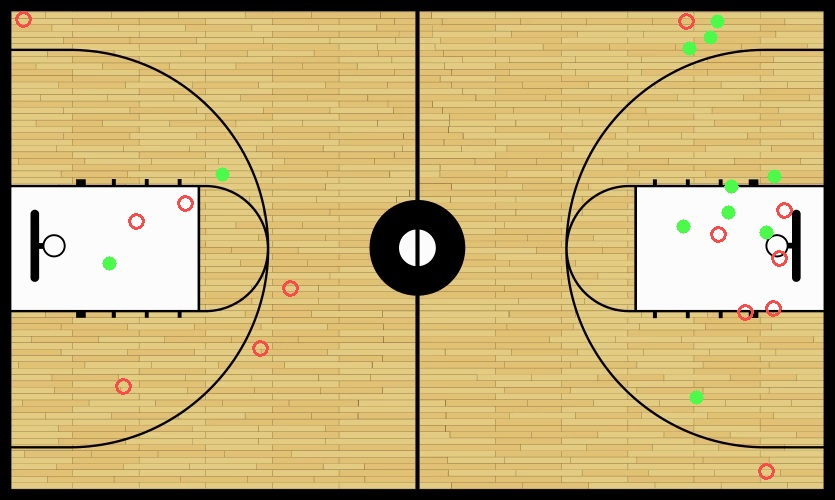
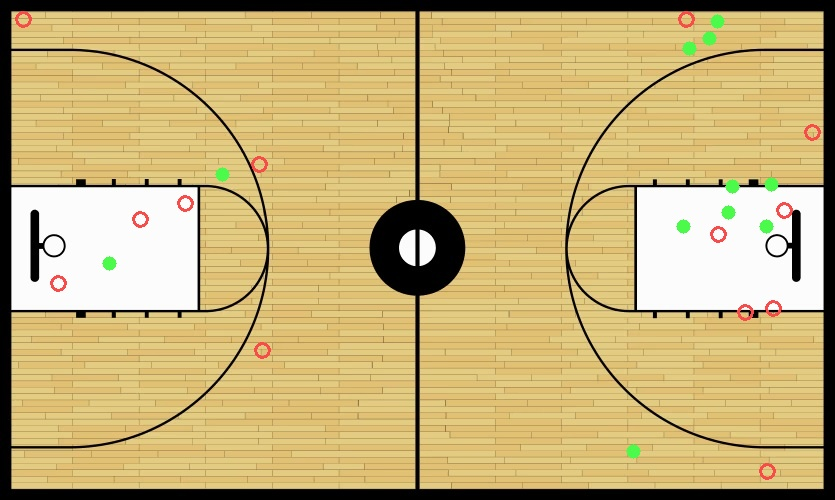
getShotInfo and Metrics
Added getShotInfo() to getShots.py which gives you shot info (left or right side of the court, what spot {rim, paint, top, left/right wing, left/right corner}, distance to basket in feet).

Defined four categories and three metrics to evaluate shot chart accuracy.

diff --git a/homographyEstimation.py b/homographyEstimation.py
@@ -64,100 +64,42 @@ class TacticalViewConverter:
     # -------------------------------------------------------
     # NEW: extracts dominant HSV color from a player's torso region
     # -------------------------------------------------------
-    def _get_jersey_sat_vote(self, frame, box_xyxy,
-                          grid=(4, 4), crop_size=5,
-                          v_frac=(0.3, 0.5), h_frac=(0.3, 0.7),
-                          sat_threshold=100):
-        """
-        Samples a grid of small crops across the torso region.
-        Returns (mean_hsv_of_all_crops, fraction_of_crops_above_sat_threshold).
-        
-        v_frac: vertical slice of box to sample within (top=0, bottom=1)
-        h_frac: horizontal slice of box to sample within
-        grid:   (rows, cols) of sample points
-        """
+    def getJerseyColor(self, frame, box_xyxy):  
         x1, y1, x2, y2 = int(box_xyxy[0]), int(box_xyxy[1]), int(box_xyxy[2]), int(box_xyxy[3])
-        bh, bw = y2 - y1, x2 - x1
-        if bh <= 0 or bw <= 0:
-            return None, 0.0
+        ylow = int(y1 + 0.5*(y2-y1))
+        yhigh = int(y1 + 0.6*(y2-y1))
 
-        # Define the torso region boundary
-        region_y1 = y1 + int(bh * v_frac[0])
-        region_y2 = y1 + int(bh * v_frac[1])
-        region_x1 = x1 + int(bw * h_frac[0])
-        region_x2 = x1 + int(bw * h_frac[1])
+        chunk = frame[ylow:yhigh, x1:x2]
 
-        rows, cols = grid
-        half = crop_size // 2
+        hsv_chunk = cv2.cvtColor(chunk, cv2.COLOR_BGR2HSV)
+        lower_white = np.array([0, 0, 90])
+        upper_white = np.array([179, 65, 255])
 
-        all_pixels = []
-        crops_above_threshold = 0
-        crops_sampled = 0
+        mask = cv2.inRange(hsv_chunk, lower_white, upper_white)
 
-        for r in range(rows):
-            for c in range(cols):
-                # Evenly space sample points across the torso region
-                sy = int(region_y1 + (r + 0.5) * (region_y2 - region_y1) / rows)
-                sx = int(region_x1 + (c + 0.5) * (region_x2 - region_x1) / cols)
+        white_pixels = cv2.countNonZero(mask)
+        total_pixels = chunk.shape[0] * chunk.shape[1]
+        white_percentage = (white_pixels / total_pixels) * 100
 
-                fy1 = max(sy - half, 0)
-                fy2 = min(sy + half + 1, frame.shape[0])
-                fx1 = max(sx - half, 0)
-                fx2 = min(sx + half + 1, frame.shape[1])
-
-                crop = frame[fy1:fy2, fx1:fx2]
-                if crop.size == 0:
-                    continue
-
-                hsv = cv2.cvtColor(crop, cv2.COLOR_BGR2HSV)
-                pixels = hsv.reshape(-1, 3).astype(np.float32)
-                mean_s = pixels[:, 1].mean()
-
-                all_pixels.append(pixels)
-                crops_sampled += 1
-                if mean_s > sat_threshold:
-                    crops_above_threshold += 1
-
-        if crops_sampled == 0 or len(all_pixels) == 0:
-            return None, 0.0
-
-        all_pixels_arr = np.concatenate(all_pixels, axis=0)
-        mean_hsv = all_pixels_arr.mean(axis=0)
-        sat_vote_ratio = crops_above_threshold / crops_sampled  # fraction of crops that look colored
-
-        return mean_hsv, sat_vote_ratio
+        return white_percentage
 
 
     def assign_teams(self, frame, player_boxes):
-        """
-        Uses grid-sampled torso crops and a majority vote on saturation
-        to assign each player to team 0 (colored) or team 1 (white).
-        
-        SAT_VOTE_THRESHOLD: fraction of crops that must read as saturated
-        to call the player "colored team". 0.5 = majority vote.
-        Raise toward 0.6-0.7 if white jersey numbers cause false colored calls.
-        """
-        SAT_VOTE_THRESHOLD = 0.55
-        DEBUG = False
-
         n = len(player_boxes)
         assignments = np.full(n, -1, dtype=np.int32)
         if n == 0:
             return assignments
 
+        white_pct = []
         for i, box in enumerate(player_boxes):
-            mean_hsv, sat_vote_ratio = self._get_jersey_sat_vote(frame, box)
+            white_pct.append((i,self.getJerseyColor(frame, box)))
+        white_pct.sort(key=lambda x: x[1],reverse=True)
+        print(white_pct)
+        for i, wp in white_pct[0:5]:
+            assignments[i] = 1
 
-            if DEBUG:
-                team = 0 if sat_vote_ratio >= SAT_VOTE_THRESHOLD else 1
-                print(f"  Player {i}: mean_HSV={np.round(mean_hsv, 1) if mean_hsv is not None else None} | sat_vote={sat_vote_ratio:.2f} -> team {team}")
-
-            if mean_hsv is None or sat_vote_ratio < SAT_VOTE_THRESHOLD:
-                assignments[i] = 1  # white team
-            else:
-                assignments[i] = 0  # colored team
-
-        assignments[assignments == -1] = 1
+        assignments[assignments == -1] = 0
+        print(assignments)
         return assignments
 
     # -------------------------------------------------------
@@ -173,7 +115,7 @@ class TacticalViewConverter:
                 team = team_assignments[i]
                 color = self.TEAM_COLORS[team] if team in (0, 1) else self.UNKNOWN_COLOR
             else:
-                color = (0, 0, 255)  # original red fallback
+                color = (75, 75, 250)  # original red fallback
             cv2.circle(img, (int(x), int(y)), 9, color, -1)
 
         #for (x, y) in mapped_ball_points:

diff --git a/getShots.py b/getShots.py
@@ -18,9 +18,9 @@ court_image     = "2D_HS_Court.jpg"
 shot_chart_name = "shotChartTesting.jpg"
 
 #Timing Information Adjustments
-PRE_ROLL        = [2.6,3.0,3.4]   # max seconds before shot timestamp to search backwards from
-SHOT_OFFSET     = [0.4,0.7,1.0]   # seconds before the timestamp to begin the backwards scan
-FALLBACK_OFFSET = [1.5,2.0,2.5]   # seconds before shot timestamp to use as fallback frame
+PRE_ROLL        = [2.8,3.1,3.4]   # max seconds before shot timestamp to search backwards from
+SHOT_OFFSET     = [0.2,0.5,1.2]   # seconds before the timestamp to begin the backwards scan
+FALLBACK_OFFSET = [1.6,2.0,2.5]   # seconds before shot timestamp to use as fallback frame
 
 # YOLO class indices
 CLASS_BALL   = 0
@@ -253,7 +253,7 @@ def find_best_frame(cap: cv2.VideoCapture, model: YOLO, shot_sec: float,
             temp = annotate_frame(frame.copy(),ball_boxes,player_boxes_conf,hoop_boxes, iou_scores,fn)
             cv2.namedWindow("Frame Testing", cv2.WINDOW_NORMAL)
             cv2.resizeWindow("Frame Testing", 960, 540)
-            show_frame_and_wait(temp,"Frame Testing",delay=15)
+            show_frame_and_wait(temp,"Frame Testing",delay=10)
         
 
         frame_data[fn] = {
@@ -477,7 +477,7 @@ def getShots(json_path: str, film_path: str, tipoff_seconds: float, show_frames:
         )
 
         last_player_points = mapper.map_centers_from_boxes(last_player_boxes, last_H)
-        #last_ball_points   = mapper.map_centers_from_boxes(last_ball_boxes,   last_H)
+        #last_ball_points  = mapper.map_centers_from_boxes(last_ball_boxes,   last_H)
 
         if show_frames:
             team_assignments = mapper.assign_teams(frame, last_player_boxes)
@@ -493,6 +493,9 @@ def getShots(json_path: str, film_path: str, tipoff_seconds: float, show_frames:
         shot_coordinates[0] = min(shot_coordinates[0],812)
         shot_coordinates[1] = max(shot_coordinates[1],19)
         shot_coordinates[1] = min(shot_coordinates[1],481)
+
+        side, shot_type, dist = getShotInfo(shot_coordinates)
+        print(side, shot_type, dist)
 
         if "mis" in make_miss:
             cv2.circle(shotChart,(int(shot_coordinates[0]),int(shot_coordinates[1])),7,(75,75,250),2)
@@ -516,6 +519,54 @@ def getShots(json_path: str, film_path: str, tipoff_seconds: float, show_frames:
     cap.release()
     cv2.destroyAllWindows()
     print("Shot Chart Created!")
+
+def getShotInfo(shot_coordinates): # Output: Shot Location Text; Distance From Hoop; 
+    x,y = shot_coordinates
+    if x <= 417: #Left Side
+        side = "Left"
+        distance = ( (x-53)**2 + (y-245) ** 2 ) ** 0.5
+        distance = round(distance * (1/11), 1) #dist in ft
+        if 11 <= y < 182: #Right Corner OR Right Wing
+            if 11 <= x <= 104:
+                shot_type = "Right Corner"
+            elif 104 < x <= 417:
+                shot_type = "Right Wing"
+        elif 182 <= y <= 314: #Rim Shots, Paint, or Top
+            if 11 <= x <= 104:
+                shot_type = "Rim"
+            elif 104 < x <= 147:
+                shot_type = "Paint"
+            elif 147 < x <= 417:
+                shot_type = "Top"
+        elif 314 < y <= 489: #Left Corner or Left Wing
+            if 11 <= x <= 104:
+                shot_type = "Left Corner"
+            elif 104 < x <= 417:
+                shot_type = "Left Wing"
+
+    else: #Right Side
+        side = "Right"
+        distance = ( (x-786)**2 + (y-245) ** 2 ) ** 0.5
+        distance = round(distance * (1/11), 1) #dist in ft
+        if 11 <= y < 182: #Left Corner or Wing
+            if 731 <= x <= 824: #93
+                shot_type = "Left Corner"
+            elif 417 <= x < 731:
+                shot_type = "Left Wing"
+        elif 182 <= y <= 314: #Rim Shots, Paint, or Top
+            if 731 <= x <= 824: 
+                shot_type = "Rim"
+            elif 688 <= x < 731:
+                shot_type = "Paint"
+            elif 417 <= x < 688:
+                shot_type = "Top"
+        elif 314 < y <= 489: #Right Corner or Right Wing
+            if 731 <= x <= 824:
+                shot_type = "Right Corner"
+            elif 417 <= x < 731:
+                shot_type = "Right Wing"
+    
+    return (side,shot_type,distance)
 
 
 # ── Entry point ───────────────────────────────────────────────────────────────

diff --git a/shotchart metrics.md b/shotchart metrics.md
@@ -1,0 +1,41 @@
+SHOT CHART METRICS
+
+Categories:
+- Absolute Perfection (AP): the shot on the 2D board is in the exact spot according to human vision (maybe a few pixels off); 
+    if a human were to create a shot chart, they would mark the same spot
+
+- Distance Marginal Error (DME): the distance of the shot placement is slightly off from the actual point of the shot;
+    this is usually due to minor homography estimation errors or slightly inaccurate bounding boxes;
+    if a human were to create a shot chart, their circle and this circle will be a few pixels off from intersecting
+
+- Algorithmic Marginal Error (ABE): the distance of the shot placement is slightly off from the actual point of the shot;
+    however, now this is generated from an inaccurate frame of the shot release;
+    if a human were to create a shot chart, their circle will be in a similar region
+
+- Complete Error (CE): the shot is completely off from the actual point of shot; not even in the same region
+    if a human were to create a shot chart, their circle wouldn't even be close
+
+Key Metrics (# indicates number of)
+- Region Accuracy (RA): how many of the shot placements are in the general region
+    #Shots In Region / #Total Shots
+    #Shots In Region = #Absolute Perfection + #Distance Marginal Error + #Algorithmic Marginal Error
+
+- Shot Finder Accuracy (SFA): how many of the shot placements are incredibly close AND have the correct frame for shot release
+    #Close Shots & Correct Frame / #Total Shots
+    #Close Shots & Correct Frame = #Absolute Perfection + #Distance Marginal Error
+
+- Shot Perfection Accuracy (SPA): how many of the shot placements are picture perfect
+    #Absolute Perfection / #Total Shots
+
+LATEST METRICS
+- Updated 6/8
+- 24 Total Shots from "SFHS VCHS Testing.mp4" (Q1 of Valley Christian @ Saint Francis 2026)
+
+AP : 14
+DME:  3
+AME:  5
+CE :  2
+
+RA : 0.9167
+SFA: 0.7083
+SPA: 0.5833
